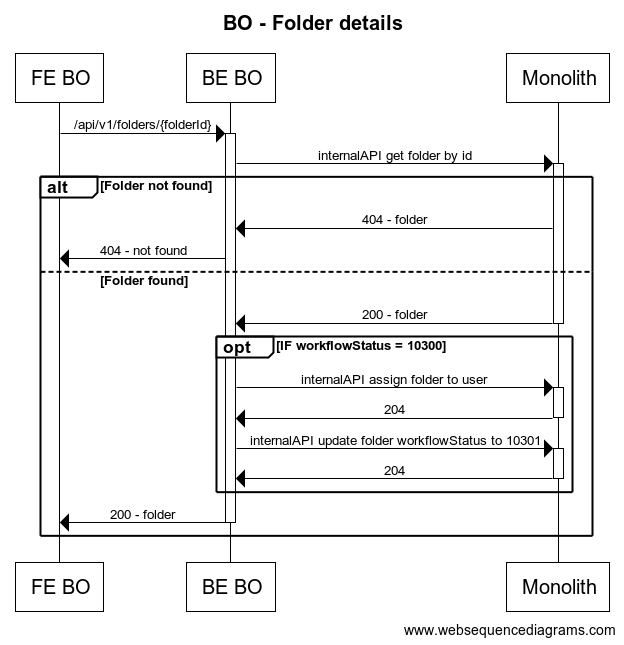
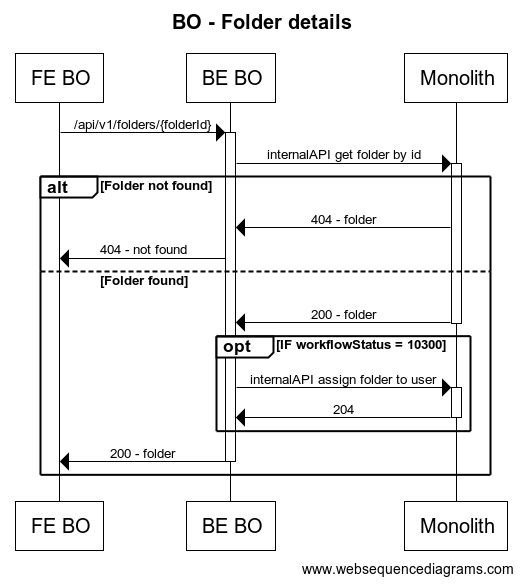
KC-1222: Extra workflow status update to 10301 removed.

Changed region(s): [[0.0, 0.0, 1.0, 1.0]]

diff --git a/tests/Unit/Service/FolderServiceTest.php b/tests/Unit/Service/FolderServiceTest.php
@@ -67,12 +67,6 @@ class FolderServiceTest extends BaseApiTest
         $personModelResponse = PersonData::createPersonModelResponse();
         $personModelResponse->setFolderId($folderId);
 
-        $updateStatusWorkflowModel = new UpdateStatusWorkflowModel();
-        $updateStatusWorkflowModel
-            ->setUserDossierId($folderId)
-            ->setStatusWorkflow(FolderEnum::WORKFLOW_STATUS_IN_PROGRESS_BY_WEBHELP)
-            ->setAdministratorId(1);
-
         $this->internalApiFolderService->getFolderById($folderId)
             ->shouldBeCalledOnce()
             ->willReturn($folderByIdModelResponse);
@@ -80,8 +74,6 @@ class FolderServiceTest extends BaseApiTest
         $this->internalApiFolderService->getPersonsByFolderId($folderId, $filters)
             ->shouldBeCalledOnce()
             ->willReturn([$personModelResponse]);
-
-        $this->internalApiFolderService->updateStatusWorkflow($updateStatusWorkflowModel)->shouldBeCalledOnce();
 
         $this->authenticator->getLoggedUserData()->shouldBeCalledOnce()->willReturn([UserEnum::USER_ID => 1]);
 
@@ -106,12 +98,6 @@ class FolderServiceTest extends BaseApiTest
         $personModelResponse = PersonData::createPersonModelResponse();
         $personModelResponse->setFolderId($folderId);
 
-        $updateStatusWorkflowModel = new UpdateStatusWorkflowModel();
-        $updateStatusWorkflowModel
-            ->setUserDossierId($folderId)
-            ->setStatusWorkflow(FolderEnum::WORKFLOW_STATUS_PROCESSED_BY_WEBHELP)
-            ->setAdministratorId(1);
-
         $this->internalApiFolderService->getFolderById($folderId)
             ->shouldBeCalledOnce()
             ->willReturn($folderByIdModelResponse);
@@ -119,8 +105,6 @@ class FolderServiceTest extends BaseApiTest
         $this->internalApiFolderService->getPersonsByFolderId($folderId, $filters)
             ->shouldBeCalledOnce()
             ->willReturn([]);
-
-        $this->internalApiFolderService->updateStatusWorkflow($updateStatusWorkflowModel)->shouldNotBeCalled();
 
         $this->authenticator->getLoggedUserData()->shouldNotBeCalled();
 
@@ -148,19 +132,11 @@ class FolderServiceTest extends BaseApiTest
         $personModelResponse = PersonData::createPersonModelResponse();
         $personModelResponse->setFolderId($folderId);
 
-        $updateStatusWorkflowModel = new UpdateStatusWorkflowModel();
-        $updateStatusWorkflowModel
-            ->setUserDossierId($folderId)
-            ->setStatusWorkflow(FolderEnum::WORKFLOW_STATUS_PROCESSED_BY_WEBHELP)
-            ->setAdministratorId(1);
-
         $this->internalApiFolderService->getFolderById($folderId)
             ->shouldBeCalledOnce()
             ->willThrow(new KycResourceNotFoundException(sprintf('Folder with id %d not found', $folderId)));
 
         $this->internalApiFolderService->getPersonsByFolderId($folderId, $filters)->shouldNotBeCalled();
-
-        $this->internalApiFolderService->updateStatusWorkflow($updateStatusWorkflowModel)->shouldNotBeCalled();
 
         $this->authenticator->getLoggedUserData()->shouldNotBeCalled();
 
@@ -186,12 +162,6 @@ class FolderServiceTest extends BaseApiTest
             ->setFirstName('first')
             ->setLastName('last');
 
-        $updateStatusWorkflowModel = new UpdateStatusWorkflowModel();
-        $updateStatusWorkflowModel
-            ->setUserDossierId($folderId)
-            ->setStatusWorkflow(FolderEnum::WORKFLOW_STATUS_IN_PROGRESS_BY_WEBHELP)
-            ->setAdministratorId(1);
-
         $this->internalApiFolderService->getFolderById($folderId)
             ->shouldBeCalledOnce()
             ->willReturn($folderByIdModelResponse);
@@ -199,8 +169,6 @@ class FolderServiceTest extends BaseApiTest
         $this->internalApiFolderService->getPersonsByFolderId($folderId, $filters)
             ->shouldBeCalledOnce()
             ->willReturn([$personModelResponse]);
-
-        $this->internalApiFolderService->updateStatusWorkflow($updateStatusWorkflowModel)->shouldNotBeCalled();
 
         $this->authenticator->getLoggedUserData()->shouldBeCalledOnce()->willReturn([UserEnum::USER_ID => 1]);
 

diff --git a/src/Service/FolderService.php b/src/Service/FolderService.php
@@ -87,7 +87,7 @@ class FolderService
 
                     $this->internalApiFolderService->assignAdministratorToFolder($administratorId, $folderId);
 
-                    $folderById = $this->updateStatusWorkflow($folderById, $administratorId);
+                    $folderById->setWorkflowStatus(FolderEnum::WORKFLOW_STATUS_IN_PROGRESS_BY_WEBHELP);
                 } catch (InternalAPIInvalidDataException $exception) {
                     $this->logger->error($exception->getMessage(), [$exception->getTrace()]);
                 }

diff --git a/Docs/Folder/Details.md b/Docs/Folder/Details.md
@@ -59,7 +59,9 @@ Content-Type: application/json
 #### Assign folder to user
 This API will also assign the folder to the active user by calling the 
 `/internalAPI/folders/assign` in [Monolith](../Monolith.md). The active user id can be retrieved
-by decoding the [JWT token](../Authentification/Authentication.md#decoding-the-jwt)
+by decoding the [JWT token](../Authentification/Authentication.md#decoding-the-jwt).
+In the Monolith the `setAffectation` method is called in order to assign folder to the administrator,
+where the workflow status update to 10301 will happen automatically. 
 
 ### Flow
 ![Folder details](../assets/Folder%20details.png)

diff --git a/Docs/assets/Folder details.md b/Docs/assets/Folder details.md
@@ -14,9 +14,6 @@ else Folder found
     opt IF workflowStatus = 10300
         BE BO->+Monolith: internalAPI assign folder to user
         Monolith->-BE BO: 204
-        
-        BE BO->+Monolith: internalAPI update folder workflowStatus to 10301
-        Monolith->-BE BO: 204 
     end
 BE BO->-FE BO: 200 - folder
 end
